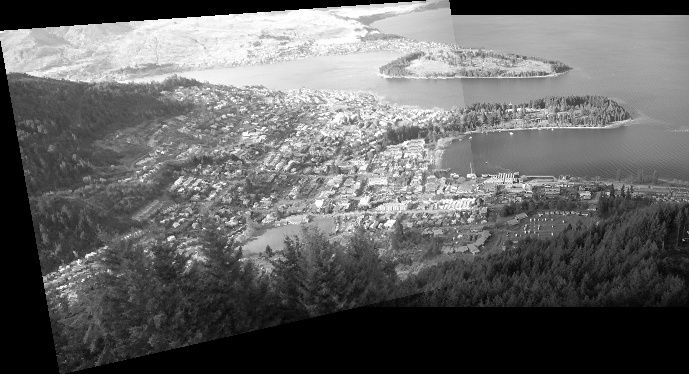
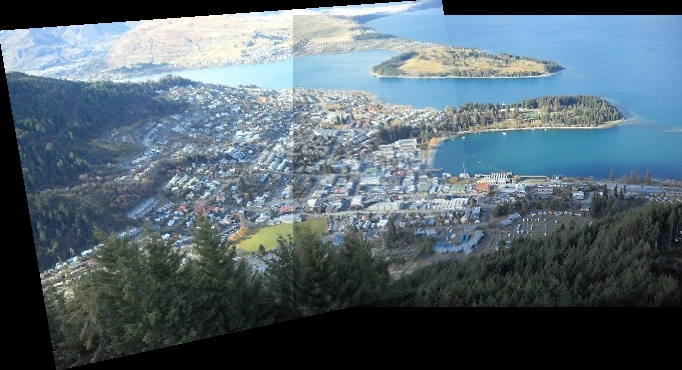
update

diff --git a/ProjectFiles/CSC-340/FinalExam.py b/ProjectFiles/CSC-340/FinalExam.py
@@ -1,25 +1,22 @@
 import numpy as np
 import cv2
 
-# Load images
-img1 = cv2.imread('ProjectFiles/CSC-340/Media/queenstownLeft.JPG', 0)
-img2 = cv2.imread('ProjectFiles/CSC-340/Media/queenstownRight.JPG', 0)
+# Load images in color
+img1 = cv2.imread('ProjectFiles/CSC-340/Media/queenstownLeft.JPG')
+img2 = cv2.imread('ProjectFiles/CSC-340/Media/queenstownRight.JPG')
 
 # Initiate SIFT detector
 sift = cv2.SIFT_create()
-
-# Find the keypoints and descriptors with SIFT
 kp1, des1 = sift.detectAndCompute(img1, None)
 kp2, des2 = sift.detectAndCompute(img2, None)
 
-# BFMatcher with default params
+# Match descriptors
 bf = cv2.BFMatcher()
 matches = bf.knnMatch(des1, des2, k=2)
 
-# Apply ratio test
+# Ratio test
 good = []
-pts1 = []
-pts2 = []
+pts1, pts2 = [], []
 for m, n in matches:
     if m.distance < 0.7 * n.distance:
         good.append(m)
@@ -29,7 +26,6 @@ for m, n in matches:
 pts1 = np.array(pts1)
 pts2 = np.array(pts2)
 
-# Function to compute homography from 4 point pairs
 def compute_homography(pts1, pts2):
     A = []
     for i in range(4):
@@ -37,128 +33,111 @@ def compute_homography(pts1, pts2):
         x2, y2 = pts2[i]
         A.append([x1, y1, 1, 0, 0, 0, -x2*x1, -x2*y1, -x2])
         A.append([0, 0, 0, x1, y1, 1, -y2*x1, -y2*y1, -y2])
-
     A = np.array(A)
     _, _, Vt = np.linalg.svd(A)
     H = Vt[-1].reshape(3, 3)
     return H
 
-# RANSAC implementation
 def ransac(pts1, pts2, iterations=3000):
     best_total_distance = float('inf')
     best_H = None
     num_points = len(pts1)
 
     for _ in range(iterations):
-        # Randomly pick 4 matches
         indices = np.random.choice(num_points, 4, replace=False)
-        pts1_sample = pts1[indices]
-        pts2_sample = pts2[indices]
+        sample1 = pts1[indices]
+        sample2 = pts2[indices]
+        H = compute_homography(sample1, sample2)
 
-        # Compute candidate homography
-        H_candidate = compute_homography(pts1_sample, pts2_sample)
-
-        # Calculate sum of distances for all points
         total_distance = 0
         for i in range(num_points):
             x1, y1 = pts1[i]
             x2, y2 = pts2[i]
-
-            pt1_homog = np.array([x1, y1, 1.0])
-            projected = H_candidate @ pt1_homog
-            projected /= projected[2]  # Normalize homogeneous coordinate
-
+            pt1 = np.array([x1, y1, 1.0])
+            projected = H @ pt1
+            projected /= projected[2]
             u, v = projected[0], projected[1]
-            distance = np.sqrt((u - x2)**2 + (v - y2)**2)
+            total_distance += np.sqrt((u - x2)**2 + (v - y2)**2)
 
-            total_distance += distance
-
-        # Keep the H with the lowest error
         if total_distance < best_total_distance:
             best_total_distance = total_distance
-            best_H = H_candidate
+            best_H = H
 
     return best_H
 
-# Run RANSAC to find best homography
 H_ransac = ransac(pts1, pts2)
-
-# Normalize H so H[2,2] = 1
 H_ransac /= H_ransac[2,2]
 
 print("Custom RANSAC Homography matrix:")
 print(H_ransac)
 
-# Now compare with OpenCV's built-in RANSAC
-opencv_H, mask = cv2.findHomography(pts1, pts2, cv2.RANSAC, 5.0)
-
+opencv_H, _ = cv2.findHomography(pts1, pts2, cv2.RANSAC, 5.0)
 print("\nOpenCV findHomography matrix:")
 print(opencv_H)
 
-# Step 3: Compute panorama dimensions
 def compute_panorama_dimensions(image1, image2, bestH):
-    # Get image dimensions
-    width1, height1 = image1.shape[1], image1.shape[0]
-    width2, height2 = image2.shape[1], image2.shape[0]
-    
-    # Define corners of image1 in homogeneous coordinates
-    corners_image1 = np.array([
+    h1, w1 = image1.shape[:2]
+    h2, w2 = image2.shape[:2]
+    corners = np.array([
         [0, 0, 1],
-        [width1, 0, 1],
-        [0, height1, 1],
-        [width1, height1, 1]
+        [w1, 0, 1],
+        [0, h1, 1],
+        [w1, h1, 1]
     ])
-    
-    # Project corners of image1 onto image2
-    projected_corners = np.dot(bestH, corners_image1.T).T
-    projected_corners /= projected_corners[:, 2:3]  # Homogeneous division
-    
-    # Combine corners of image1 and image2 to find panorama bounds
-    minX = min(np.min(projected_corners[:, 0]), 0)
-    maxX = max(np.max(projected_corners[:, 0]), width2)
-    minY = min(np.min(projected_corners[:, 1]), 0)
-    maxY = max(np.max(projected_corners[:, 1]), height2)
-    
-    # Panorama dimensions
-    panorama_width = int(maxX - minX)
-    panorama_height = int(maxY - minY)
-    
-    return panorama_width, panorama_height, minX, minY
+    proj_corners = (bestH @ corners.T).T
+    proj_corners /= proj_corners[:, 2:3]
+    minX = min(np.min(proj_corners[:, 0]), 0)
+    maxX = max(np.max(proj_corners[:, 0]), w2)
+    minY = min(np.min(proj_corners[:, 1]), 0)
+    maxY = max(np.max(proj_corners[:, 1]), h2)
+    return int(maxX - minX), int(maxY - minY), int(minX), int(minY)
 
-# Step 4: Stitch images using bestH
 def stitch_images(image1, image2, bestH):
-    # Get dimensions of image2
-    height2, width2 = image2.shape[:2]
+    h2, w2 = image2.shape[:2]
+    pano_w, pano_h, minX, minY = compute_panorama_dimensions(image1, image2, bestH)
+    panorama = np.zeros((pano_h, pano_w, 3), dtype=np.uint8)
 
-    # Compute the panorama size and offsets
-    panorama_width, panorama_height, minX, minY = compute_panorama_dimensions(image1, image2, bestH)
-    
-    # Create a new empty panorama image
-    panorama = np.zeros((panorama_height, panorama_width), dtype=np.uint8)
-    
-    # Convert minX, minY to integers
-    minX, minY = int(minX), int(minY)
-    
-    # Copy image2 into the panorama (shift by minX, minY if necessary)
-    panorama[-minY:height2-minY, -minX:width2-minX] = image2
-    
-    # Iterate over all pixels in the panorama
-    for y in range(panorama_height):
-        for x in range(panorama_width):
-            # Map panorama pixel (x, y) to image1 using inverse homography
-            pt2 = np.array([x + minX, y + minY, 1])  # Shifting by minX, minY
-            pt1 = np.dot(np.linalg.inv(bestH), pt2)  # Inverse homography transformation
-            pt1 /= pt1[2]  # Homogeneous division
-            
-            # Check if pt1 is within bounds of image1
+    # Paste image2 into panorama
+    panorama[-minY:h2 - minY, -minX:w2 - minX] = image2
+
+    # Initialize blending statistics
+    total_red_diff = 0
+    total_green_diff = 0
+    total_blue_diff = 0
+    total_pixels = 0
+
+    invH = np.linalg.inv(bestH)
+
+    for y in range(pano_h):
+        for x in range(pano_w):
+            pt2 = np.array([x + minX, y + minY, 1])
+            pt1 = invH @ pt2
+            pt1 /= pt1[2]
             x1, y1 = int(pt1[0]), int(pt1[1])
+
             if 0 <= x1 < image1.shape[1] and 0 <= y1 < image1.shape[0]:
-                panorama[y, x] = image1[y1, x1]  # Copy pixel from image1 to panorama
-    
+                pixel1 = image1[y1, x1]
+                pixel2 = panorama[y, x]
+
+                if np.any(pixel2 > 0):
+                    blended = ((pixel1.astype(np.uint16) + pixel2.astype(np.uint16)) // 2).astype(np.uint8)
+                    panorama[y, x] = blended
+
+                    # Preserve sign in difference
+                    total_red_diff += int(pixel1[0]) - int(pixel2[0])
+                    total_green_diff += int(pixel1[1]) - int(pixel2[1])
+                    total_blue_diff += int(pixel1[2]) - int(pixel2[2])
+                    total_pixels += 1
+                else:
+                    panorama[y, x] = pixel1
+
+    print("\nBlending statistics:")
+    print(f"Total pixels blended: {total_pixels}")
+    print(f"Total red diff: {total_red_diff}")
+    print(f"Total green diff: {total_green_diff}")
+    print(f"Total blue diff: {total_blue_diff}")
+
     return panorama
 
-# Stitch the images
 result = stitch_images(img1, img2, H_ransac)
-
-# Save the resulting panorama to a file
 cv2.imwrite('ProjectFiles/CSC-340/Media/stitched_panorama.jpg', result)
